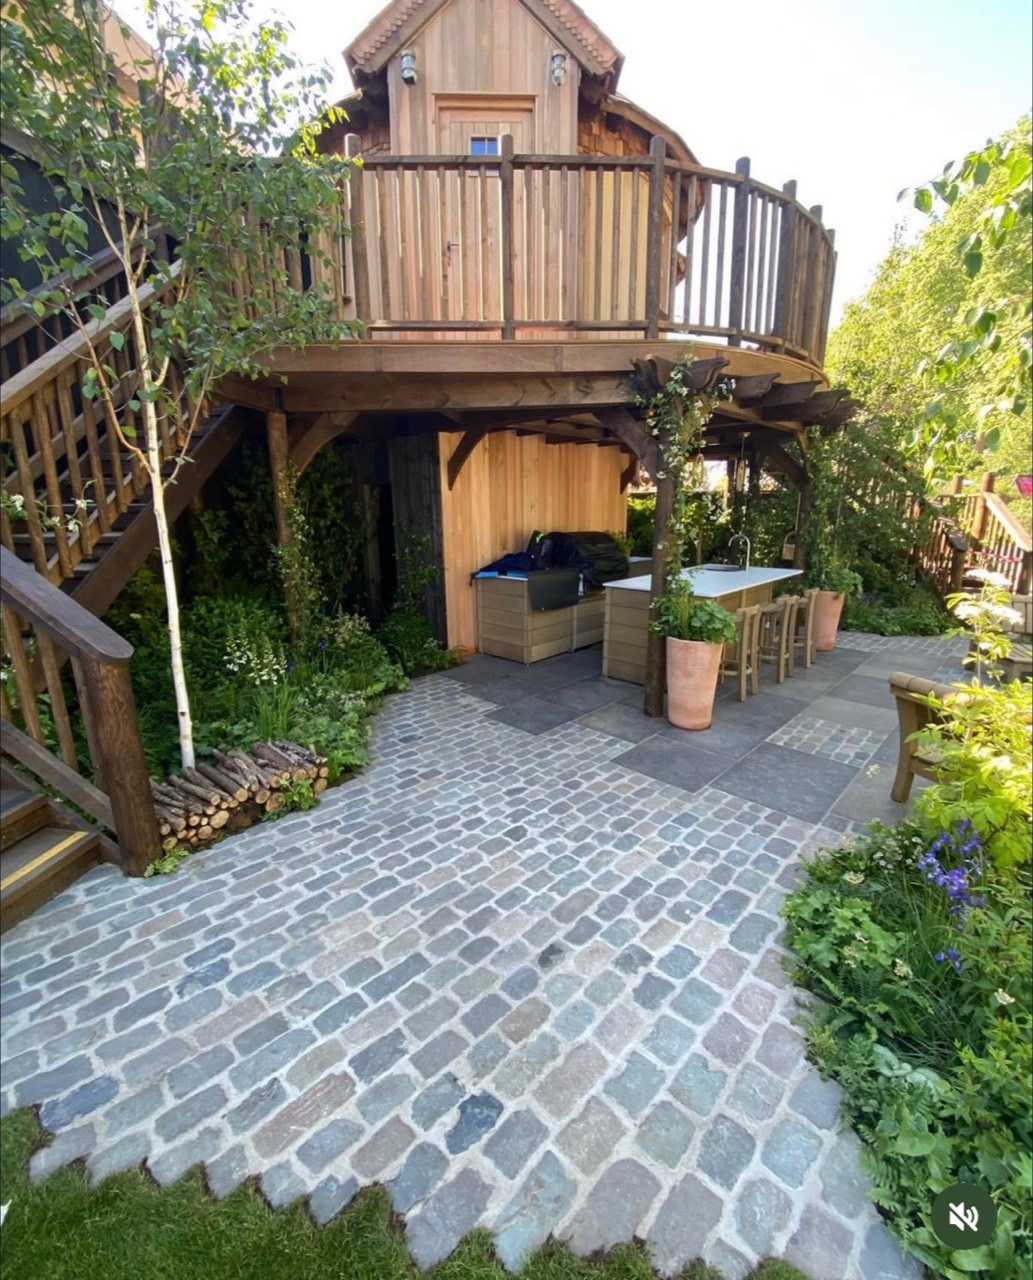
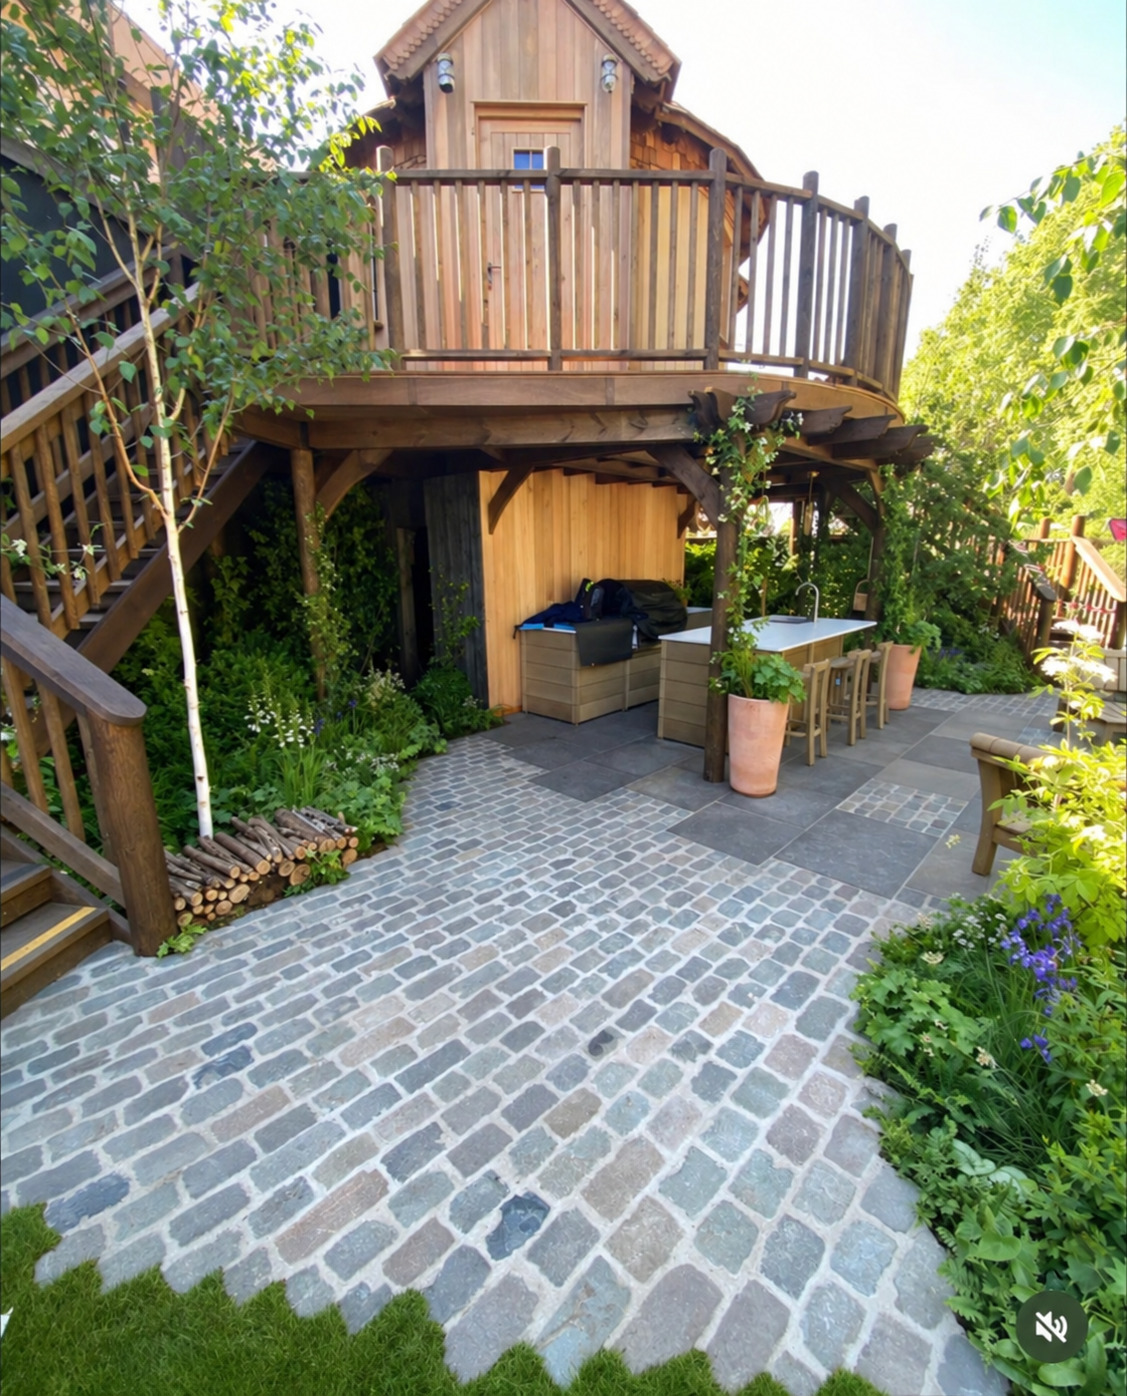
Refine gallery grass and mobile controls

diff --git a/assets/css/site.css b/assets/css/site.css
@@ -1085,3 +1085,33 @@ html body footer.footer--compact .footer__legal{margin-bottom:0}
   line-height:1!important;
  }
 }
+
+
+/* Elegant mobile Menu chevron */
+@media (max-width:899px){
+ html body .menu-btn{
+  position:relative;
+  min-height:2.15rem!important;
+  padding:.25rem .65rem .72rem!important;
+  border:0!important;
+  border-radius:0!important;
+  background:transparent!important;
+  box-shadow:none!important;
+ }
+ html body .menu-btn::after{
+  content:"";
+  position:absolute;
+  left:50%;
+  bottom:.05rem;
+  width:.58rem;
+  height:.58rem;
+  border-right:1.5px solid currentColor;
+  border-bottom:1.5px solid currentColor;
+  transform:translateX(-50%) rotate(45deg);
+  opacity:.92;
+ }
+}
+
+/* Garden-toned WhatsApp button */
+html body .whatsapp{background:#496b45}
+html body .whatsapp__phone{fill:#496b45}
